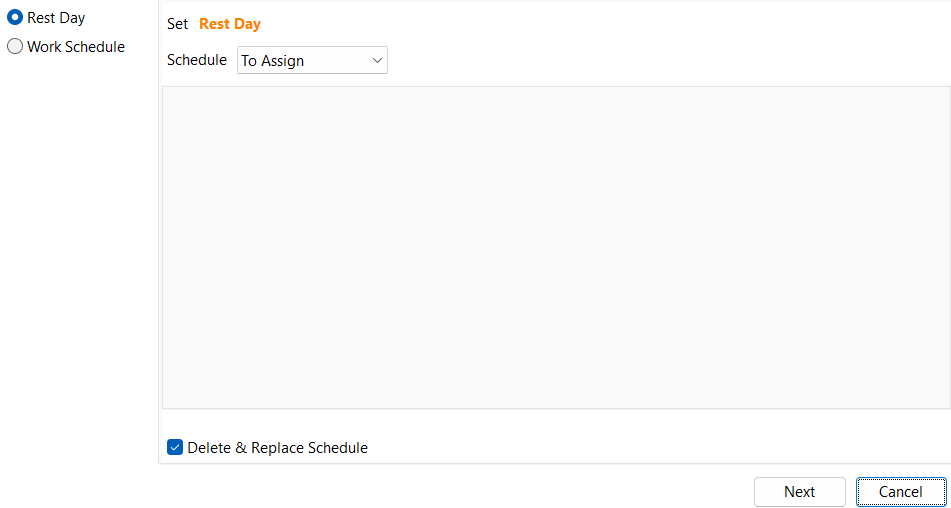
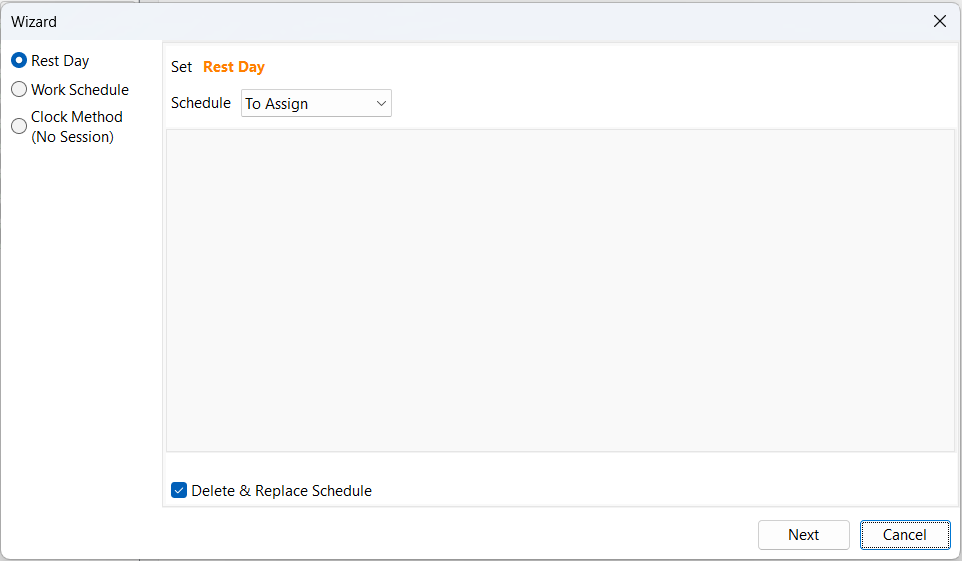
add clock method for days without session documentation

diff --git a/docs/integration/hrms/e-tms/payroll-setup.md b/docs/integration/hrms/e-tms/payroll-setup.md
@@ -87,7 +87,7 @@ For more Public Holiday options, user may click on the **_'≣'_** on the grid t
    :::info
 
    - Only one clock method can be selected. However, if none of the clock method is selected, then the clock in / out button in SQL HRMS app will be disabled and employee does not require to clock in / out.
-   - Clock Method on days without work session, public holiday and rest day is by default **GPS**.
+   - Clock Method on days without work session, public holiday and rest day is by default **GPS**. User may update to their desire clock method in [Maintain Calendar](#maintain-calendar).
 
    :::
 
@@ -184,12 +184,13 @@ Make sure that the work session is set based on the time zone maintained in Comp
 - **Black font:** Work Day with Session
 - **Grey font:** No schedule is assigned
 
-**Set Work Session:**
+**Set Work Session / Clock Method:**
 
-- User may click on **_'R' button_** or **_'W' button_** and select date from calendar
+- User may click on **_'R' button_**, **_'W' button_** or **_'M' button_** and select date from calendar
 - Use **_'C' button_** to clear Work Session/Rest Day
   - Alternatively, user may use **_'Clear All' button_** to clear all Rest Day and Work Session within the date range
-- User cannot assign work sessions or change work sessions on dates before summary last processed date
+  - Note that clock method will also be reset back to **'GPS'**
+- User cannot assign work sessions, change work sessions or change clock method on dates before summary last processed date
 - On days without work session assigned, no summary will be processed unless there are clock in/clock out logs on that day
 
 ### Wizard
@@ -230,7 +231,15 @@ Make sure that the work session is set based on the time zone maintained in Comp
    | By Weeks         | Assign to every selected day of every selected weeks of the year            |
    | Custom           | Assign to selected dates                                                    |
 
-5. Process
+5. Next, select a Clock Method
+
+   ![calendar-wizard3](../../../../static/img/integration/hrms/e-tms/calendar-wizard3.png)
+
+   - Selected clock method will only be assigned to Rest Day, Public Holiday and Work Day without session on allowable dates within the selected date range
+
+6. Select a date range
+
+7. Process
 
 :::warning
 User cannot assign work sessions or change work sessions on dates before summary last processed date
@@ -259,7 +268,8 @@ Date From need to be after summary last processed date to future dates (dates be
 **Explanation:** Delete all schedule (Work Session and Rest Day) of Employee 00006 from 20/5/2024 to 31/12/2024
 
 :::info
-Date From need to be after summary last processed date to future dates (dates before summary last processed date are not allowed to delete)
+1. Date From need to be after summary last processed date to future dates (dates before summary last processed date are not allowed to delete)
+2. When schedule is cleared, clock method will be reset back to **'GPS'**
 :::
 
 ## Maintain Traveller Location
